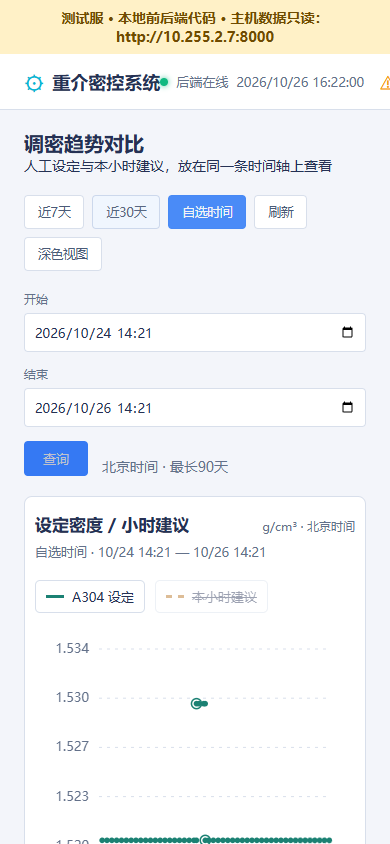
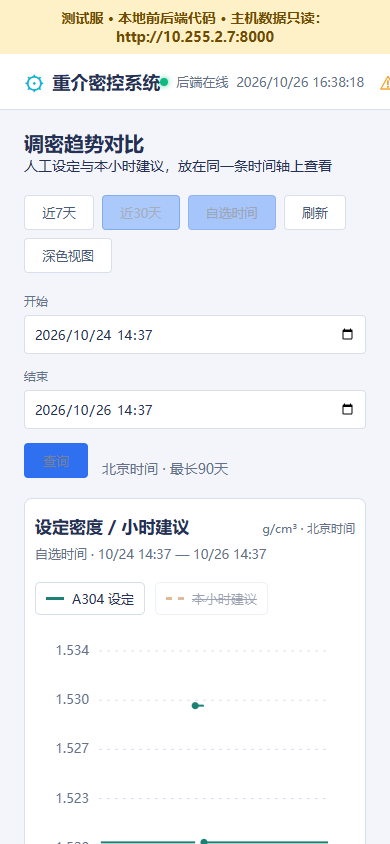
Show density trend markers only at adjustments

diff --git a/backend/scripts/verify_density_trend_browser.js b/backend/scripts/verify_density_trend_browser.js
@@ -23,6 +23,16 @@ const url = process.env.DMCS_VERIFY_URL || 'http://127.0.0.1:8000';
         await page.locator('.nav-item[data-page="page-density-trend"]').click();
         await page.waitForFunction(()=>DensityTrendPage.meta?.policy==='density-trend-v2');
         await page.waitForFunction(()=>document.getElementById('density-trend-canvas')._hits.length>0);
+        const markers=await page.evaluate(()=>{
+            const canvas=document.getElementById('density-trend-canvas'),ctx=canvas.getContext('2d'),original=ctx.arc;
+            let drawn=0;ctx.arc=function(...args){drawn++;return original.apply(this,args);};
+            try{DensityTrendPage.draw();}finally{ctx.arc=original;}
+            return {drawn,changes:DensityTrendPage.series.A304.filter(p=>p.origin==='change'&&p.value!==null).length,
+                observations:DensityTrendPage.series.A304.length,
+                suggested:DensityTrendPage.series.advice.filter((p,i,all)=>DensityTrendPage.showPoint(all[i-1],p)).length};
+        });
+        assert.equal(markers.drawn,markers.changes+markers.suggested,'only density changes have markers');
+        assert.ok(markers.changes<markers.observations,'repeated observations retain lines without dots');
         await page.locator('#density-trend-canvas').focus();await page.keyboard.press('End');
         assert.equal(await page.evaluate(()=>{const c=document.getElementById('density-trend-canvas');return c._index===c._hits.length-1;}),true);
         await page.keyboard.press('Home');assert.equal(await page.evaluate(()=>document.getElementById('density-trend-canvas')._index),0);
@@ -57,7 +67,7 @@ const url = process.env.DMCS_VERIFY_URL || 'http://127.0.0.1:8000';
         await page.screenshot({path:path.join(output,'live-dark.png')});
         assert.deepEqual(errors,[]);assert.equal(mutationAttempts,0);
         const report={passed:true,liveData:true,apiMs,counts,monthCount,archiveAvailable:data.archive_available,
-            trueAdviceCount:data.suggestions.length,exactRanges:true,keyboard:true,edgeCases:edge,mutationAttempts,pageErrors:errors};
+            trueAdviceCount:data.suggestions.length,exactRanges:true,keyboard:true,changeMarkers:markers,edgeCases:edge,mutationAttempts,pageErrors:errors};
         fs.writeFileSync(path.join(output,'result-page.json'),JSON.stringify(report,null,2));console.log(JSON.stringify(report));
     } finally {await browser.close();}
 })().catch(e=>{console.error(e);process.exitCode=1;});

diff --git a/frontend/js/decision-density-trend.js b/frontend/js/decision-density-trend.js
@@ -21,6 +21,11 @@ const DensityTrendPage = {
         const hour = p => Math.floor(Date.parse(p.apply_start || p.at) / 3600000);
         return b.t >= a.t && b.t - a.t <= 75 * 60000 && hour(b) - hour(a) <= 1;
     },
+    showPoint(previous, point) {
+        if (point.value === null) return false;
+        if (point.key === 'A304') return point.origin === 'change';
+        return this.connected(previous, point) && Math.abs(point.value - previous.value) >= .0005;
+    },
     init() {
         if (this.inited) return;
         this.inited = true;
@@ -160,11 +165,15 @@ const DensityTrendPage = {
                 previous=p;
             }
             ctx.stroke();ctx.setLineDash([]);
-            for (const p of points) {
+            previous=null;
+            for (const [index,p] of points.entries()) {
+                const marked=this.showPoint(previous,p);
+                const isolated=!this.connected(previous,p) && !(points[index+1] && this.connected(p,points[index+1]));
+                previous=p;
                 if (p.value===null) continue;
-                const px=x(p.t),py=y(p.value), radius=points.length>600?1.8:2.8;
-                ctx.beginPath();ctx.arc(px,py,radius,0,2*Math.PI);ctx.fill();
-                if (p.origin==='change') {ctx.lineWidth=1.5;ctx.beginPath();ctx.arc(px,py,5,0,2*Math.PI);ctx.stroke();}
+                const px=x(p.t),py=y(p.value);
+                if (marked) {ctx.beginPath();ctx.arc(px,py,3.5,0,2*Math.PI);ctx.fill();}
+                else if (isolated) {ctx.beginPath();ctx.moveTo(px-4,py);ctx.lineTo(px+4,py);ctx.stroke();}
                 canvas._hits.push({...p,x:px,y:py,text:this.detail(p)});
             }
         }

diff --git a/frontend/index.html b/frontend/index.html
@@ -500,7 +500,7 @@
                     <div class="density-trend-tooltip" hidden></div>
                 </div>
                 <p id="density-trend-archive-note" class="density-trend-archive-note"></p>
-                <p class="density-trend-note">设定曲线保留已记录的每次变化及小时基准观测；圆环表示检测到调密。连线仅连接观测点，不代表中间时刻的实测值。无记录时段留空。实际操作发生在前后两次观测之间，是否为人工操作需结合现场确认。</p>
+                <p class="density-trend-note">相同密度连续显示为水平直线；设定曲线只在检测到调密处显示小点，建议曲线只在建议值变化处显示小点。悬停仍可查看原始观测，孤立观测用短横线表示。无记录时段保持断开；实际操作发生在前后两次观测之间。</p>
                 <p id="density-trend-status" role="status" aria-live="polite"></p>
             </div>
             <div class="card">

diff --git a/docs/verification/density-trend-20261026/acceptance.md b/docs/verification/density-trend-20261026/acceptance.md
@@ -29,3 +29,7 @@
 主机当前尚无新归档表，因此建议历史显示缺档；未来部署此版本后由主机后台开始积累，不由笔记本补写。归档是后台计算时刻的记录，不保证保留两次后台计算间每一次短暂的页面变化。
 
 只读接入曾因笔记本工业网 IP 变为 10.255.2.8 返回 403；用户恢复 10.255.2.6 后读数据正常。未修改主机接入权限。
+
+## 同日展示调整
+
+按用户要求，连续相同密度仅显示水平线，A304 仅在检测到调密处显示实心小点；建议曲线仅在连续有效记录的数值变化处显示点。保留全部观测和悬浮交互，缺口不连接，孤立有效观测显示短横线。真实 7 天数据的 175 个观测现仅绘制 9 个调密点；浏览器范围切换、键盘、缺口及只读检查通过。仅更新测试端展示。
